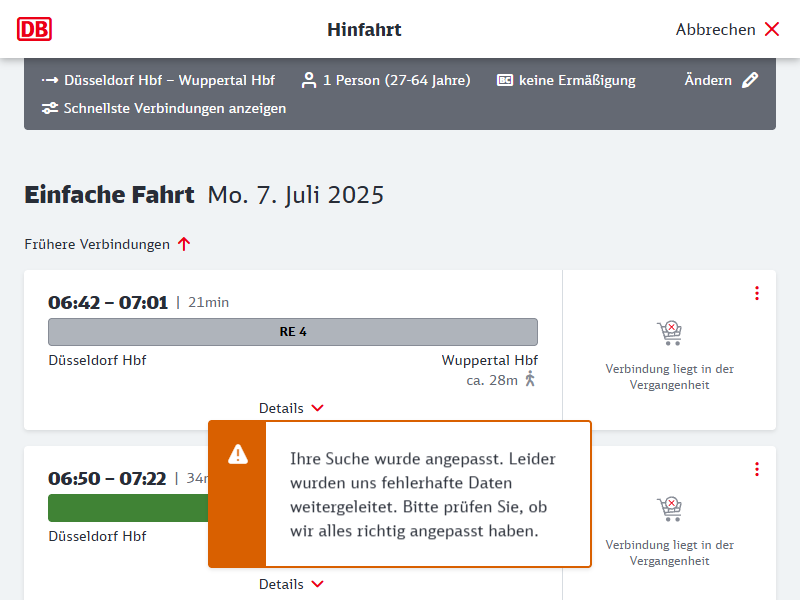
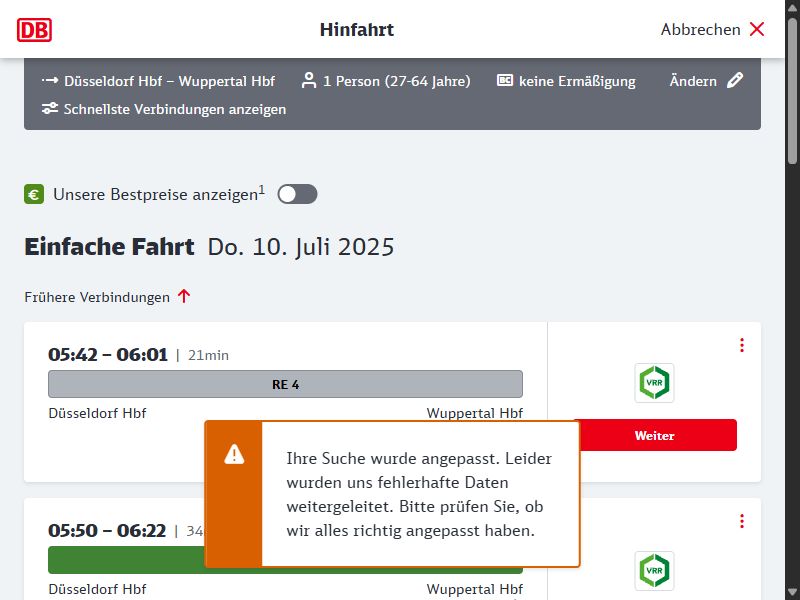
better structuring

diff --git a/db-scraper.js b/db-scraper.js
@@ -1,133 +1,110 @@
 import puppeteer from "puppeteer";
-import { stationData } from './stationData.js';
 
-export const scrapeDBNavigator = async (date, time) => {
-    const browser = await puppeteer.launch({ headless: true }); // false for debugging
+export const scrapeDBNavigator = async ({ date, time, startStation, endStation, debug = false }) => {
+    const browser = await puppeteer.launch({ headless: !debug });
     const page = await browser.newPage();
 
-    const departureTime = new Date("2025-07-07T08:45:00");
+    const departureTime = new Date(`${date}T${time}`);
 
-    // Generate URL
     const bookingUrl = generateBookingUrl(startStation, endStation, departureTime);
+    console.log("O | Generated URL:", bookingUrl);
 
     await page.goto(bookingUrl, { waitUntil: 'networkidle2' });
+    console.log("O | Page loaded, waiting for departure data...");
+    console.log("O | Generated URL:", bookingUrl); // debug
 
-    console.log('Page loaded, waiting for departure data... \n'); // debug
-    console.log("Generated URL:", bookingUrl); // debug
+    await page.screenshot({ path: 'debug/1 beginning.png' }); // debug screenshot
 
-    try {
-        await page.screenshot({ path: 'debug/1 beginning.png' }); // debug
+    // Wait for the shadow host (main container that contains the shadow root)
+    await page.waitForSelector("body > div:nth-child(1)", { visible: true });
+    const shadowHost = await page.$("body > div:nth-child(1)");
+    const shadowRootHandle = await shadowHost.evaluateHandle(el => el.shadowRoot);
 
-        // Wait for the shadow host (main container that contains the shadow root)
-        await page.waitForSelector("body > div:nth-child(1)", { visible: true });
-        const shadowHost = await page.$("body > div:nth-child(1)");
-        const shadowRootHandle = await shadowHost.evaluateHandle(el => el.shadowRoot);
+    // Select and click the "Only allow necessary cookies" button inside the shadow DOM
+    const acceptCookiesButton = await shadowRootHandle.$(
+        "#consent-layer > div.consent-layer__btn-container > button.btn.btn--secondary.js-accept-essential-cookies"
+    );
 
-        // Select and click the "Only allow necessary cookies" button inside the shadow DOM
-        const acceptCookiesButton = await shadowRootHandle.$(
-            "#consent-layer > div.consent-layer__btn-container > button.btn.btn--secondary.js-accept-essential-cookies"
-        );
-
-        if (acceptCookiesButton) {
-            await acceptCookiesButton.click();
-            console.log("Accepted cookies"); // debug
-        } else {
-            console.log("Cookie button not found"); // debug
-        }
-
-
-        await page.screenshot({ path: 'debug/3 afterCookie.png' }); // debug
-
-        const selector = "#ReiseloesungList > div.loading-indicator.loading-indicator--full-width > div.reiseloesung-list-page__wrapper > div:nth-child(1) > div > h2";
-        const element = await page.$(selector);
-        if (element) {
-            logError(departureStation, arrivalStation, date, time, "No connection found for this ");
-            await page.screenshot({ path: 'debug/3.5 noConnection.png' }); // debug
-
-        } else {
-            await page.screenshot({ path: 'debug/4 pre-Details.png' }); // debug
-
-            const detailsButton = await page.evaluateHandle(() => {
-                const buttons = Array.from(document.querySelectorAll('button'));
-                return buttons.find(btn =>
-                    btn.textContent.trim().toLowerCase() === 'details'
-                );
-            });
-
-            if (detailsButton) {
-                console.log("detais-button found, scrolling into view"); // debug
-                await detailsButton.evaluate(el => el.scrollIntoView({ behavior: 'smooth', block: 'center' }));
-                // await page.waitForTimeout(500); // Kurzes Warten für Rendering
-
-                try {
-                    await detailsButton.click();
-                    console.log("🟢 Details-Button erfolgreich geklickt.");
-                    await page.screenshot({ path: 'debug/6 after-Dtails.png' });
-                } catch (err) {
-                    console.error("Error | clicking details button:", err);
-                }
-            } else {
-                console.error("Error | no details button found.");
-                await page.screenshot({ path: 'debug/6 no-details-found.png' });
-            }
-
-
-            // Wait for the travel sections to load
-            // Optionally, scroll to the bottom to trigger lazy loading
-            //            await page.evaluate(() => {
-            //                window.scrollTo(0, document.body.scrollHeight);
-            //            });
-
-            await page.waitForSelector('.verbindungs-abschnitt', { visible: true });
-
-            try {
-                // Scraping the data
-                const data = await page.evaluate(() => {
-                    // Select all elements with the class `verbindungs-abschnitt`
-                    const rows = Array.from(document.querySelectorAll('.verbindungs-abschnitt'));
-
-                    // Map over each row to extract the required information
-                    return rows.map(row => {
-                        const departure = row.querySelector('.verbindungs-halt__zeit-abfahrt')?.innerText.trim() || 'N/A';
-                        const arrival = row.querySelector('.verbindungs-halt__zeit-ankunft')?.innerText.trim() || 'N/A';
-                        const departureStation = row.querySelector('.verbindungs-halt-bahnhofsinfos__name--abfahrt ._text')?.innerText.trim() || 'N/A';
-                        const arrivalStation = row.querySelector('.verbindungs-halt-bahnhofsinfos__name--ankunft ._text')?.innerText.trim() || 'N/A';
-                        const platform = row.querySelector('.verbindungs-abschnitt-zeile__gleis span')?.innerText.trim() || 'N/A';
-                        const transferDuration = row.querySelector('.verbindungs-transfer__dauer')?.innerText.trim() || 'N/A';
-                        const trainInfo = row.querySelector('.verbindungs-transfer__description-zuginfo-wrapper')?.innerText.trim() || 'N/A';
-
-                        return {
-                            departure,
-                            arrival,
-                            departureStation,
-                            arrivalStation,
-                            platform,
-                            transferDuration,
-                            trainInfo
-                        };
-                    });
-                });
-
-                console.log('Scraped Data:', data);
-
-            } catch (error) {
-                console.error('Error during scraping data:', error);
-            }
-        }
-    } catch (error) {
-        console.error('Error during scraping:', error);
+    if (acceptCookiesButton) {
+        await acceptCookiesButton.click();
+        console.log("🟢 | Accepted cookies"); // debug
+    } else {
+        console.log("Cookie button not found"); // debug
     }
 
-    await browser.close();
-};
 
+    await page.screenshot({ path: 'debug/3 afterCookie.png' }); // debug screenshot
+
+    const selector = "#ReiseloesungList > div.loading-indicator.loading-indicator--full-width > div.reiseloesung-list-page__wrapper > div:nth-child(1) > div > h2";
+    const element = await page.$(selector);
+    if (element) {
+        logError(departureStation, arrivalStation, date, time, "No connection found for this ");
+        await page.screenshot({ path: 'debug/3.5 noConnection.png' }); // debug screenshot
+
+    } else {
+        await page.screenshot({ path: 'debug/4 pre-Details.png' }); // debug screenshot
+
+        const detailsButton = await page.evaluateHandle(() => {
+            const buttons = Array.from(document.querySelectorAll('button'));
+            return buttons.find(btn =>
+                btn.textContent.trim().toLowerCase() === 'details'
+            );
+        });
+
+        if (detailsButton) {
+            console.log("🟢 | detais-button found, scrolling into view"); // debug
+            await detailsButton.evaluate(el => el.scrollIntoView({ behavior: 'smooth', block: 'center' }));
+            await page.waitForTimeout(500);
+
+            try {
+                await detailsButton.click();
+                console.log("🟢 | details-button clicked"); // debug
+                await page.screenshot({ path: 'debug/6 after-Dtails.png' });
+            } catch (err) {
+                console.error("Error | clicking details button:", err);
+            }
+        } else {
+            console.error("Error | no details button found.");
+            await page.screenshot({ path: 'debug/6 no-details-found.png' }); // debug screenshot
+        }
+
+
+        // Wait for the travel sections to load
+        // Optionally, scroll to the bottom to trigger lazy loading
+        //            await page.evaluate(() => {
+        //                window.scrollTo(0, document.body.scrollHeight);
+        //            });
+
+        await page.waitForSelector('.verbindungs-abschnitt', { visible: true });
+
+        // Scraping the data
+        const data = await page.evaluate(() => {
+            const rows = Array.from(document.querySelectorAll('.verbindungs-abschnitt'))
+                .filter(row => row.querySelector('.verbindungs-halt__zeit-abfahrt'));
+            return rows.map(row => {
+                const departure = row.querySelector('.verbindungs-halt__zeit-abfahrt')?.innerText.trim() || 'N/A';
+                const arrival = row.querySelector('.verbindungs-halt__zeit-ankunft')?.innerText.trim() || 'N/A';
+                const departureStation = row.querySelector('.verbindungs-halt-bahnhofsinfos__name--abfahrt ._text')?.innerText.trim() || 'N/A';
+                const arrivalStation = row.querySelector('.verbindungs-halt-bahnhofsinfos__name--ankunft ._text')?.innerText.trim() || 'N/A';
+                const platform = row.querySelector('.verbindungs-abschnitt-zeile__gleis span')?.innerText.trim() || 'N/A';
+                const transferDuration = row.querySelector('.verbindungs-transfer__dauer')?.innerText.trim() || 'N/A';
+                const trainInfo = row.querySelector('.verbindungs-transfer__description-zuginfo-wrapper')?.innerText.trim() || 'N/A';
+
+                return { departure, arrival, departureStation, arrivalStation, platform, transferDuration, trainInfo };
+            });
+        });
+
+        console.log("O | Scraped Data:", data);
+
+        await browser.close();
+        return data;
+    };
+}
 function generateBookingUrl(startStation, endStation, datetime) {
     const timePart = datetime.toTimeString().slice(0, 5);
     const timeString = `${timePart}:KLASSENLOS:1`;
-    // ISO-Date for 'hd' parameter (e.g. "2025-07-07T08:45:00")
     const hd = datetime.toISOString().slice(0, 19);
 
-    // help function for soid/zoid:
     const createStationId = (station) =>
         `A=1@O=${station.name}@X=${station.x}@Y=${station.y}@U=${station.u}@L=${station.l}@B=${station.b}@p=${station.p}@i=${station.i}@`;
 
@@ -158,52 +135,3 @@ function generateBookingUrl(startStation, endStation, datetime) {
 
     return "https://www.bahn.de/buchung/fahrplan/suche#" + params.toString();
 }
-
-const startStation = {
-    name: "Düsseldorf Hbf",
-    x: 6794317,
-    y: 51219960,
-    u: 80,
-    l: 8000085,
-    b: 1,
-    p: 1742845592,
-    i: "U~008000085",
-    evaNr: 8000085
-};
-
-
-const endStation = {
-    name: "Wuppertal Hbf",
-    x: 7043300,       // Ost-Koordinate
-    y: 51161000,      // Nord-Koordinate
-    u: 80,
-    l: 8000296,       // LocoNet-ID
-    b: 1,
-    p: 1742845525,    // beliebiger Timestamp-Wert
-    i: "U~008000296", // interne ID
-    evaNr: 8000296    // EVA-Nummer für Wuppertal Hbf
-};
-
-
-const startStationForTramNotYetPossible = { // TODO
-    name: "Lennéstraße, Düsseldorf",
-    x: 6803500,
-    y: 51220000,
-    u: 80,
-    l: 8089021,
-    b: 1,
-    p: 1742845511,
-    i: "U~008089021",
-    evaNr: 8089021
-};
-const endStationForTramNotYetPossible = { // TODO
-    name: "Färberstraße, Düsseldorf",
-    x: 6802900,
-    y: 51228000,
-    u: 80,
-    l: 8089022,
-    b: 1,
-    p: 1742845522,
-    i: "U~008089022",
-    evaNr: 8089022
-};

diff --git a/stationData.js b/stationData.js
@@ -1,12 +1,48 @@
-export const stationData = {
-  "Düsseldorf Hbf": {
-    name: "Düsseldorf Hbf",
-    soid: "A=1@O=Düsseldorf Hbf@X=6794317@Y=51219960@U=80@L=8000085@B=1@p=1742845592@i=U~008008094@",
-    id: "8000085"
-  },
-  "Epe Westf": {
-    name: "Epe Westf",
-    soid: "A=1@O=Epe Westf@X=7000000@Y=51000000@U=80@L=8001234@B=1@p=1742845555@i=U~008008999@",
-    id: "8001234"
-  }
+// stationData.js
+
+export const stations = {
+    duesseldorfHbf: {
+        name: "Düsseldorf Hbf",
+        x: 6794317,
+        y: 51219960,
+        u: 80,
+        l: 8000085,
+        b: 1,
+        p: 1742845592,
+        i: "U~008000085",
+        evaNr: 8000085
+    },
+    wuppertalHbf: {
+        name: "Wuppertal Hbf",
+        x: 7043300,
+        y: 51161000,
+        u: 80,
+        l: 8000296,
+        b: 1,
+        p: 1742845525,
+        i: "U~008000296",
+        evaNr: 8000296
+    },
+    lenneStrasse: {
+        name: "Lennéstraße, Düsseldorf",
+        x: 6803500,
+        y: 51220000,
+        u: 80,
+        l: 8089021,
+        b: 1,
+        p: 1742845511,
+        i: "U~008089021",
+        evaNr: 8089021
+    },
+    faerberStrasse: {
+        name: "Färberstraße, Düsseldorf",
+        x: 6802900,
+        y: 51228000,
+        u: 80,
+        l: 8089022,
+        b: 1,
+        p: 1742845522,
+        i: "U~008089022",
+        evaNr: 8089022
+    }
 };

diff --git a/scheduleScraper.js b/scheduleScraper.js
@@ -1,16 +1,25 @@
 import cron from 'node-cron';
 import { scrapeDBNavigator } from './db-scraper.js';
+import { stations } from "./stationData.js";
 
-const departureStation = "Düsseldorf Hbf";  
-const arrivalStation = "Epe Westf";   
-const date = "2025-05-10";                // (format: YYYY-MM-DD)
-const time = "10:00";                   // (format: HH:mm)
-
-
-cron.schedule('*/1 * * * *' , () => { // Every 2 minutes
+cron.schedule('*/1 * * * *', () => { // Every 1 minute
     try {
-        scrapeDBNavigator(date, time);
+        (async () => {
+            const date = "2025-07-10";
+            const time = "07:00:00";
+            const debug = true;
+
+            const startStation = stations.duesseldorfHbf;
+            const endStation = stations.wuppertalHbf;
+
+            const data = await scrapeDBNavigator({ date, time, startStation, endStation, debug });
+            console.log("🚂 Ergebnis:", data);
+        })();
     } catch (error) {
-        console.error('Error during scraping:', error);
+        console.error('| Scheduling error:', error);
     }
 });
+
+
+
+
